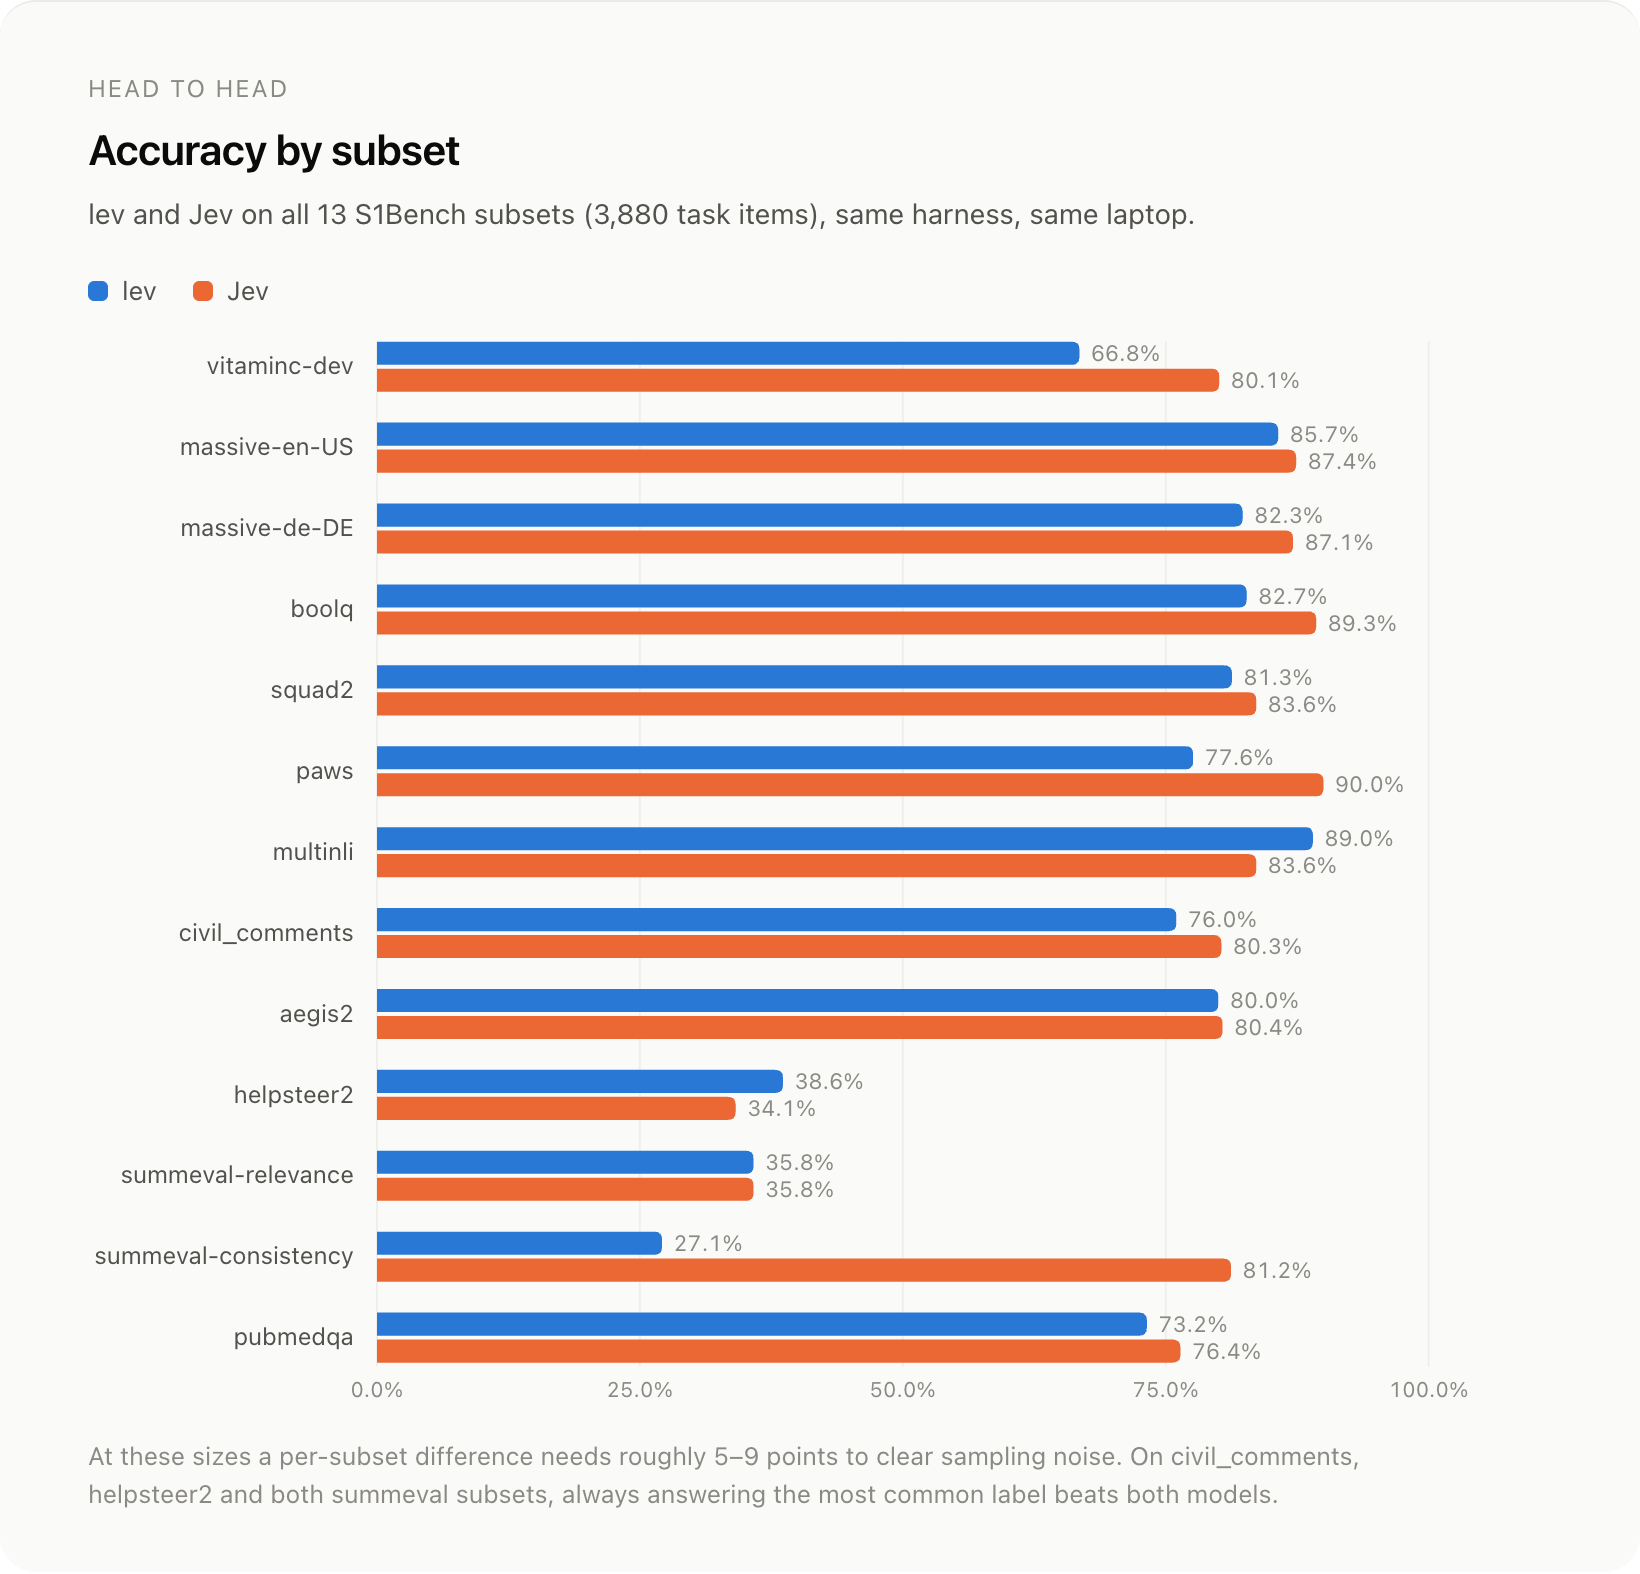
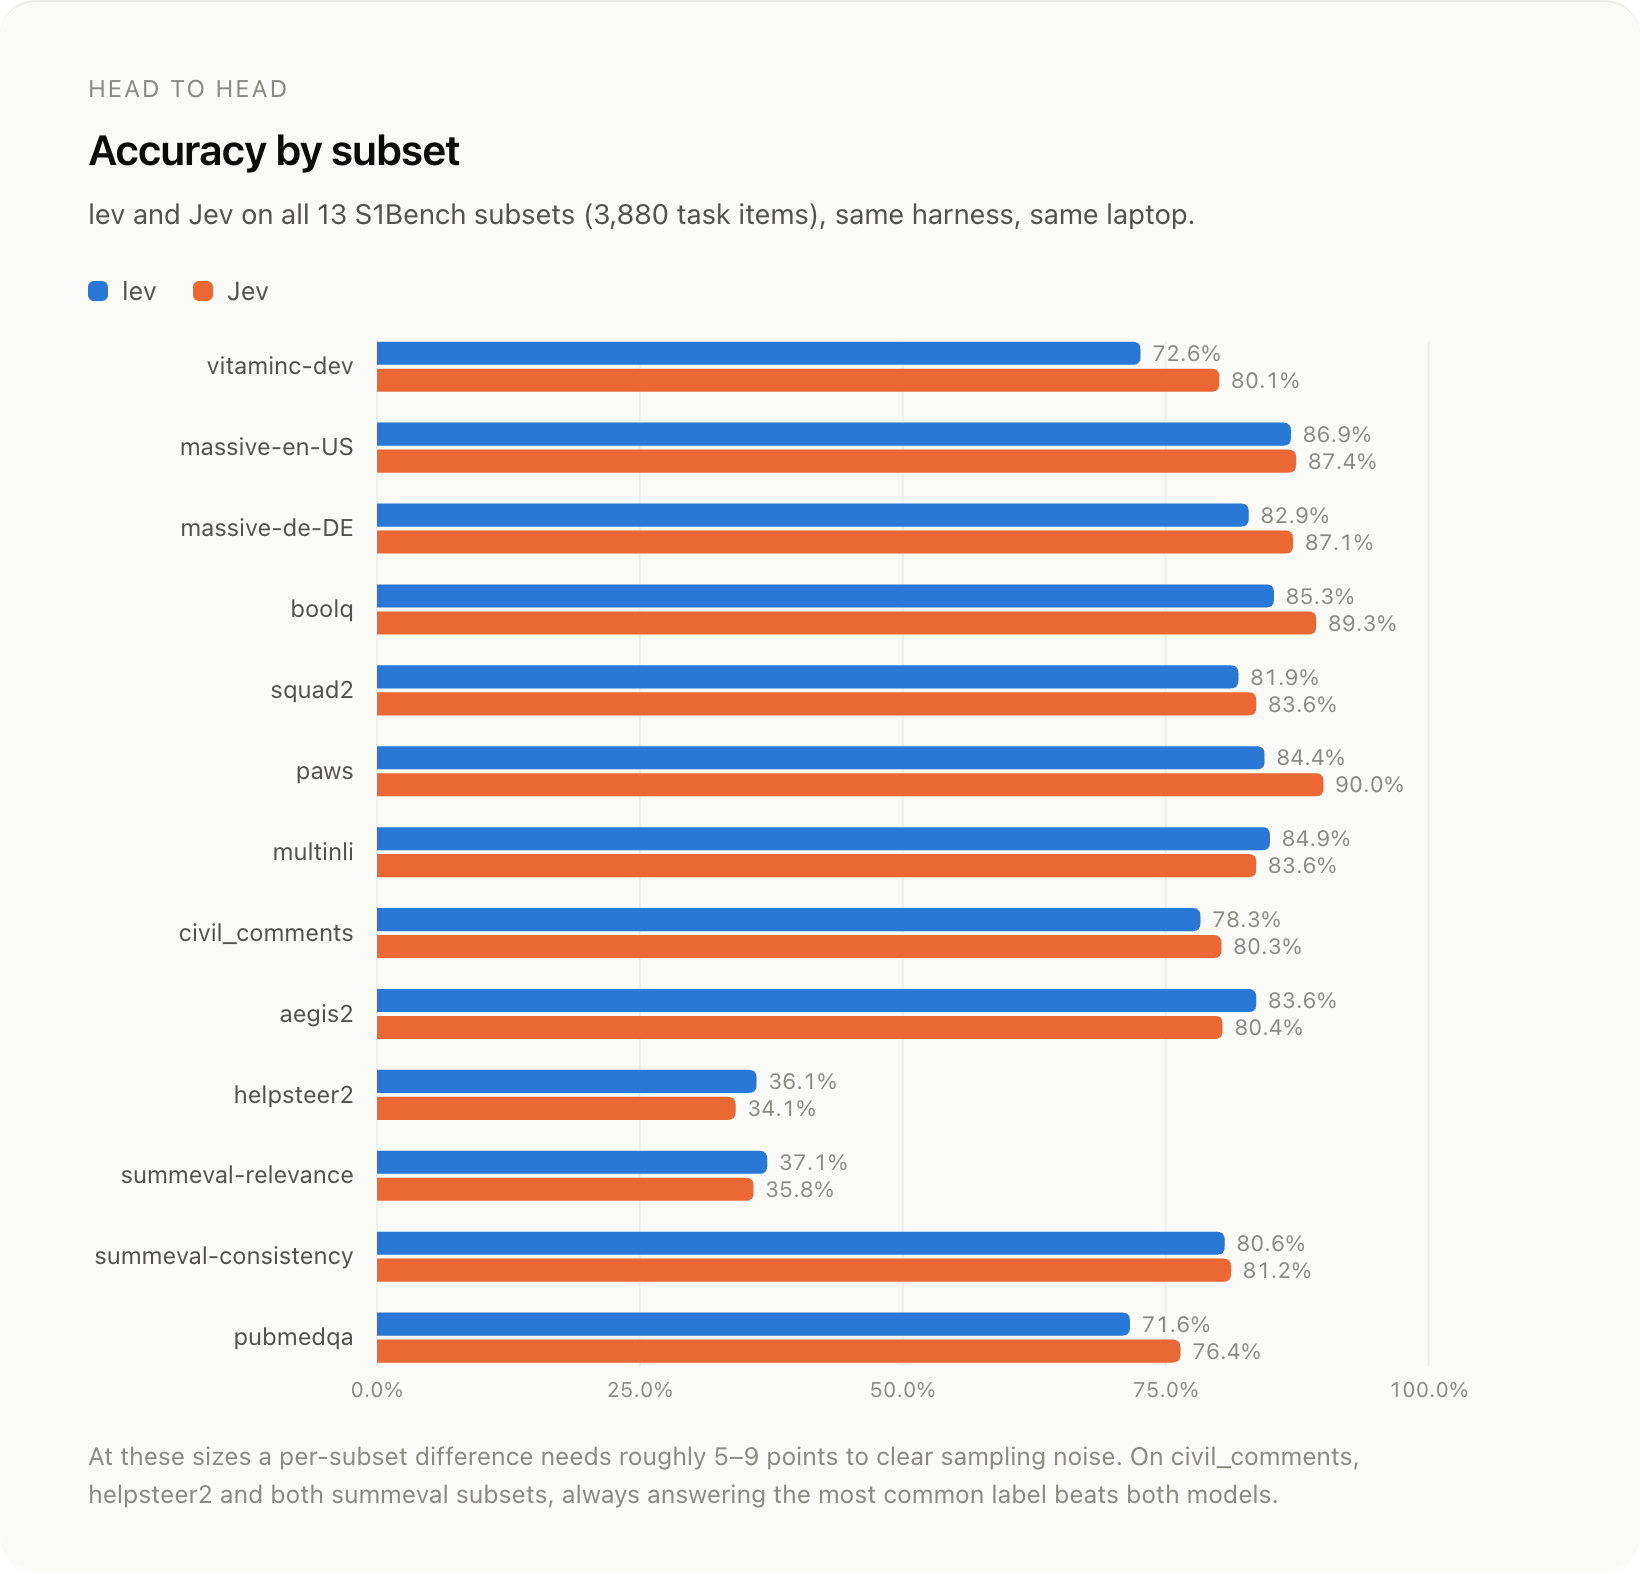
docs(readme): report the adapter-scaled release on s1bench

diff --git a/hf/README.md b/hf/README.md
@@ -26,9 +26,9 @@ lev answers typed questions about a piece of context in a single forward pass. Y
 
 <div align="center" style="line-height: 1;"><img src="https://img.shields.io/badge/license-Apache--2.0-2a78d6?style=flat-square" alt="Apache-2.0" style="display: inline-block; vertical-align: middle; margin: 2px;"> <img src="https://img.shields.io/badge/base-Qwen3.5--4B-2a78d6?style=flat-square" alt="Qwen3.5-4B" style="display: inline-block; vertical-align: middle; margin: 2px;"> <img src="https://img.shields.io/badge/output%20tokens-0-2a78d6?style=flat-square" alt="Zero output tokens" style="display: inline-block; vertical-align: middle; margin: 2px;"> <img src="https://img.shields.io/badge/API-%2Fv1%2Fsystemone-2a78d6?style=flat-square" alt="/v1/systemone compatible" style="display: inline-block; vertical-align: middle; margin: 2px;"> <a href="https://github.com/Abhinavexists/lev"><img src="https://img.shields.io/badge/code-GitHub-14181f?style=flat-square&logo=github" alt="GitHub" style="display: inline-block; vertical-align: middle; margin: 2px;"></a> <a href="https://interfaze.ai/blog/jev-now-open-source-lev"><img src="https://img.shields.io/badge/Blog-lev-yellow" alt="Blog" style="display: inline-block; vertical-align: middle; margin: 2px;"></a> <a href="https://interfaze.ai"><img src="https://img.shields.io/badge/Built_by-Interfaze--ai-4C1" alt="interfaze" style="display: inline-block; vertical-align: middle; margin: 2px;"></a></div>
 
-<h2 align="center">68.9% on all 13 S1Bench subsets. 4B parameters. Zero output tokens.</h2>
+<h2 align="center">74.3% on all 13 S1Bench subsets. 4B parameters. Zero output tokens.</h2>
 
-<p align="center"><strong>Qwen3.5-4B + LoRA on one H100.</strong> On the six subsets the public S1Bench board completed, level with reflex-4b and behind only Jev and three open models of 26B–35B.</p>
+<p align="center"><strong>Qwen3.5-4B + LoRA on one H100.</strong> On the six subsets the public S1Bench board completed, behind only Jev and two open models of 26B and up, ahead of reflex-4b and a 35B model.</p>
 
 <p align="center"><a href="#quickstart"><strong>Quickstart</strong></a> · <a href="#self-hosting-a-jev-compatible-http-server">Self-hosting</a> · <a href="#benchmarks">Benchmarks</a> · <a href="#speed">Speed</a> · <a href="#why-it-works">Why it works</a> · <a href="#training">Training</a> · <a href="#boundaries-worth-understanding">Boundaries</a> · <a href="https://github.com/Abhinavexists/lev">GitHub</a></p>
 
@@ -88,7 +88,7 @@ print(result.usage.output_tokens)  # 0
 
 These are real outputs from this checkpoint. The answers are objects, and `result.model_dump()` gives the same JSON the HTTP server returns.
 
-All the questions share one forward pass, so asking three questions costs about the same as asking one. `lev.load` reads `lev_release.json` from this repository to find the base model and the prompt format the adapter was trained with. It also applies the shipped calibration and loads the matching head, so there is nothing to configure.
+All the questions share one forward pass, so asking three questions costs about the same as asking one. `lev.load` reads `lev_release.json` from this repository to find the base model, the prompt format the adapter was trained with, and the strength to apply the adapter at. It also applies the shipped calibration and loads the matching head, so there is nothing to configure.
 
 Because the probabilities are calibrated, you can gate on them. For example, act automatically above 0.9 and send anything lower to a person.
 
@@ -135,27 +135,27 @@ print(response.answers["team"].choice, response.answers["bug"].noul)  # technica
 
 | subset | task | **lev** | Jev | always the most common label |
 | --- | --- | --: | --: | --: |
-| vitaminc-dev | claim verification | 0.668 | **0.801** | 0.503 |
-| massive-en-US | intent routing, 18 scenarios | 0.857 | **0.874** | 0.163 |
-| massive-de-DE | intent routing, German | 0.823 | **0.871** | 0.163 |
-| boolq | yes/no reading comprehension | 0.827 | **0.893** | 0.580 |
-| squad2 | answerability | 0.813 | **0.836** | 0.502 |
-| paws | adversarial paraphrase | 0.776 | **0.900** | 0.516 |
-| multinli | natural language inference | **0.890** | 0.836 | 0.361 |
-| civil_comments | toxicity | 0.760 | **0.803** | 0.893 |
-| aegis2 | safety moderation | 0.800 | **0.804** | 0.568 |
-| helpsteer2 | helpfulness, 5 levels | **0.386** | 0.341 | 0.422 |
-| summeval-relevance | summary relevance, 5 levels | 0.358 | 0.358 | 0.458 |
-| summeval-consistency | summary faithfulness, 5 levels | 0.271 | **0.812** | 0.840 |
-| pubmedqa | biomedical yes/no/maybe | 0.732 | **0.764** | 0.532 |
-| **macro** | | 0.689 | **0.761** | |
+| vitaminc-dev | claim verification | 0.726 | **0.801** | 0.503 |
+| massive-en-US | intent routing, 18 scenarios | 0.869 | **0.874** | 0.163 |
+| massive-de-DE | intent routing, German | 0.829 | **0.871** | 0.163 |
+| boolq | yes/no reading comprehension | 0.853 | **0.893** | 0.580 |
+| squad2 | answerability | 0.819 | **0.836** | 0.502 |
+| paws | adversarial paraphrase | 0.844 | **0.900** | 0.516 |
+| multinli | natural language inference | **0.849** | 0.836 | 0.361 |
+| civil_comments | toxicity | 0.783 | **0.803** | 0.893 |
+| aegis2 | safety moderation | **0.836** | 0.804 | 0.568 |
+| helpsteer2 | helpfulness, 5 levels | **0.361** | 0.341 | 0.422 |
+| summeval-relevance | summary relevance, 5 levels | **0.371** | 0.358 | 0.458 |
+| summeval-consistency | summary faithfulness, 5 levels | 0.806 | **0.812** | 0.840 |
+| pubmedqa | biomedical yes/no/maybe | 0.716 | **0.764** | 0.532 |
+| **macro** | | 0.743 | **0.761** | |
 
-lev and TypeSafe Jev ran through the same harness on all 3,880 items S1Bench scores, pinned by [Nimble](https://github.com/bespokelabsai/nimble)'s manifests. The Jev run lands within 0.8 points of TypeSafe's published figure on every subset, so the harness is not the gap.
+lev and TypeSafe Jev ran through the same harness on all 3,880 items S1Bench scores, pinned by [Nimble](https://github.com/bespokelabsai/nimble)'s manifests. The Jev run lands within 0.8 points of TypeSafe's published figure on every subset, so the harness is not the gap. The adapter scale was chosen by leave-one-family-out over these subsets; scored only on families held out of that choice, it estimates 0.728 ([FINDINGS §19](https://github.com/Abhinavexists/lev/blob/main/docs/FINDINGS.md#19-the-adapter-scale-is-an-out-of-distribution-knob-and-it-is-worth-39-macro-points)).
 
-- **Noise:** at these sizes a per-subset difference needs roughly 5–9 points to be real. lev's leads on multinli and helpsteer2 are inside that.
-- **Where Jev is clearly ahead:** the minimal-edit pairs (paws −12.4, vitaminc −13.3) and summeval-consistency (−54.1), where lev rates most fully faithful summaries one level low. Fine-tuning introduced that: the untuned backbone scores 0.826.
+- **Noise:** at these sizes a per-subset difference needs roughly 5–9 points to be real. lev's leads on aegis2, helpsteer2, multinli and summeval-relevance are all inside that.
+- **Where Jev is clearly ahead:** the minimal-edit pairs (vitaminc −7.5, paws −5.6). The adapter runs at a quarter of its trained strength, which narrowed those gaps from −13.3 and −12.4 and closed summeval-consistency's from −54.1 to −0.6: at full strength it rated most fully faithful summaries one level low.
 - **Constant baselines:** on civil_comments (89% not toxic) and the three 5-level rating subsets, always answering the most common label beats both models.
-- **Calibration:** mean ECE 0.115 for lev, 0.091 for Jev; lev is better calibrated on 5 of 13.
+- **Calibration:** mean ECE 0.097 for lev, 0.091 for Jev; lev is better calibrated on 6 of 13. summeval-consistency is the outlier, under-confident at 0.303.
 
 <p align="center"><img src="assets/leaderboard.png" alt="S1Bench leaderboard over the six subsets every listed model completed" width="100%"></p>
 

diff --git a/README.md b/README.md
@@ -10,9 +10,9 @@ lev is an open System One decision model and the harness that measures it. Give 
   Read full blog here: <a href="https://interfaze.ai/blog/jev-now-open-source-lev">https://interfaze.ai/blog/jev-now-open-source-lev</a>
 </p>
 
-<h2 align="center">68.9% on all 13 S1Bench subsets. 4B parameters. Zero output tokens.</h2>
+<h2 align="center">74.3% on all 13 S1Bench subsets. 4B parameters. Zero output tokens.</h2>
 
-<p align="center"><strong>Qwen3.5-4B + LoRA on one H100.</strong> On the six subsets the public S1Bench board completed, level with reflex-4b and behind only Jev and three open models of 26B–35B.<br><a href="docs/FINDINGS.md#17-all-13-s1bench-subsets-on-the-pinned-items">Accuracy receipt</a> · <a href="docs/DECISIONS.md#adr-023--one-batched-forward-not-prefill-and-fork">Speed receipt</a></p>
+<p align="center"><strong>Qwen3.5-4B + LoRA on one H100.</strong> On the six subsets the public S1Bench board completed, behind only Jev and two open models of 26B and up, ahead of reflex-4b and a 35B model.<br><a href="docs/FINDINGS.md#19-the-adapter-scale-is-an-out-of-distribution-knob-and-it-is-worth-39-macro-points">Accuracy receipt</a> · <a href="docs/DECISIONS.md#adr-023--one-batched-forward-not-prefill-and-fork">Speed receipt</a></p>
 
 <p align="center"><a href="#quickstart"><strong>Quickstart</strong></a> · <a href="#why-it-works">Why it works</a> · <a href="#the-optimizations-that-mattered">What mattered</a> · <a href="#measure-it-yourself">Benchmark harness</a> · <a href="#watch-it-decide">Snake demo</a> · <a href="#train-it-yourself">Train it</a> · <a href="docs/DECISIONS.md">Decision log</a> · <a href="https://huggingface.co/interfaze-ai/lev">Model card</a></p>
 
@@ -22,27 +22,27 @@ lev is an open System One decision model and the harness that measures it. Give 
 
 | subset | task | **lev** | Jev | always the most common label |
 | --- | --- | --: | --: | --: |
-| vitaminc-dev | claim verification | 0.668 | **0.801** | 0.503 |
-| massive-en-US | intent routing, 18 scenarios | 0.857 | **0.874** | 0.163 |
-| massive-de-DE | intent routing, German | 0.823 | **0.871** | 0.163 |
-| boolq | yes/no reading comprehension | 0.827 | **0.893** | 0.580 |
-| squad2 | answerability | 0.813 | **0.836** | 0.502 |
-| paws | adversarial paraphrase | 0.776 | **0.900** | 0.516 |
-| multinli | natural language inference | **0.890** | 0.836 | 0.361 |
-| civil_comments | toxicity | 0.760 | **0.803** | 0.893 |
-| aegis2 | safety moderation | 0.800 | **0.804** | 0.568 |
-| helpsteer2 | helpfulness, 5 levels | **0.386** | 0.341 | 0.422 |
-| summeval-relevance | summary relevance, 5 levels | 0.358 | 0.358 | 0.458 |
-| summeval-consistency | summary faithfulness, 5 levels | 0.271 | **0.812** | 0.840 |
-| pubmedqa | biomedical yes/no/maybe | 0.732 | **0.764** | 0.532 |
-| **macro** | | 0.689 | **0.761** | |
+| vitaminc-dev | claim verification | 0.726 | **0.801** | 0.503 |
+| massive-en-US | intent routing, 18 scenarios | 0.869 | **0.874** | 0.163 |
+| massive-de-DE | intent routing, German | 0.829 | **0.871** | 0.163 |
+| boolq | yes/no reading comprehension | 0.853 | **0.893** | 0.580 |
+| squad2 | answerability | 0.819 | **0.836** | 0.502 |
+| paws | adversarial paraphrase | 0.844 | **0.900** | 0.516 |
+| multinli | natural language inference | **0.849** | 0.836 | 0.361 |
+| civil_comments | toxicity | 0.783 | **0.803** | 0.893 |
+| aegis2 | safety moderation | **0.836** | 0.804 | 0.568 |
+| helpsteer2 | helpfulness, 5 levels | **0.361** | 0.341 | 0.422 |
+| summeval-relevance | summary relevance, 5 levels | **0.371** | 0.358 | 0.458 |
+| summeval-consistency | summary faithfulness, 5 levels | 0.806 | **0.812** | 0.840 |
+| pubmedqa | biomedical yes/no/maybe | 0.716 | **0.764** | 0.532 |
+| **macro** | | 0.743 | **0.761** | |
 
-lev and Jev ran through the same harness on all 3,880 items S1Bench scores, pinned by [Nimble](https://github.com/bespokelabsai/nimble)'s manifests. The Jev run lands within 0.8 points of TypeSafe's published figure on every subset, so the harness is not the gap.
+lev and Jev ran through the same harness on all 3,880 items S1Bench scores, pinned by [Nimble](https://github.com/bespokelabsai/nimble)'s manifests. The Jev run lands within 0.8 points of TypeSafe's published figure on every subset, so the harness is not the gap. The adapter scale was chosen by leave-one-family-out over these subsets; scored only on families held out of that choice, it estimates 0.728 ([FINDINGS §19](docs/FINDINGS.md#19-the-adapter-scale-is-an-out-of-distribution-knob-and-it-is-worth-39-macro-points)).
 
-- **Noise:** at these sizes a per-subset difference needs roughly 5–9 points to be real. lev's leads on multinli and helpsteer2 are inside that.
-- **Where Jev is clearly ahead:** the minimal-edit pairs (paws −12.4, vitaminc −13.3) and summeval-consistency (−54.1), where lev rates most fully faithful summaries one level low. Fine-tuning introduced that: the untuned backbone scores 0.826.
+- **Noise:** at these sizes a per-subset difference needs roughly 5–9 points to be real. lev's leads on aegis2, helpsteer2, multinli and summeval-relevance are all inside that.
+- **Where Jev is clearly ahead:** the minimal-edit pairs (vitaminc −7.5, paws −5.6). The adapter runs at a quarter of its trained strength, which narrowed those gaps from −13.3 and −12.4 and closed summeval-consistency's from −54.1 to −0.6: at full strength it rated most fully faithful summaries one level low.
 - **Constant baselines:** on civil_comments (89% not toxic) and the three 5-level rating subsets, always answering the most common label beats both models.
-- **Calibration:** mean ECE 0.115 for lev, 0.091 for Jev; lev is better calibrated on 5 of 13.
+- **Calibration:** mean ECE 0.097 for lev, 0.091 for Jev; lev is better calibrated on 6 of 13. summeval-consistency is the outlier, under-confident at 0.303.
 - **Speed:** 69 ms is lev's engine compute for a short request inside the container. End to end from a laptop, Jev answered in 335–346 ms median and lev on one Modal H100 in 414–654 ms across two runs.
 
 [Every run, per-subset breakdowns and what each run changed →](docs/FINDINGS.md)
